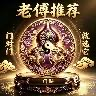
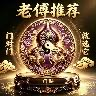
assets: 按模板表内嵌图同步所有榜单同名商品图（非闭环 49 款 + 节点榜 12 处），重复商品图与入榜行对齐

diff --git a/site/data/selection.js b/site/data/selection.js
@@ -1905,7 +1905,7 @@ window.SELECTION_DATA = {
         {
           "name": "足贴",
           "industry": "家居日用",
-          "image": "assets/products/1ace98ec61b7e6ce.webp",
+          "image": "assets/products/29f89b5fe1c62673.jpg",
           "leaf": "足贴",
           "price": 37.64,
           "roi": 3.62,
@@ -2007,7 +2007,7 @@ window.SELECTION_DATA = {
         {
           "name": "粘鼠板",
           "industry": "家居日用",
-          "image": "assets/products/32ee396da502b6fa.webp",
+          "image": "assets/products/32ee396da502b6fa.jpg",
           "leaf": "驱鼠/灭鼠用品",
           "price": 31.55,
           "roi": 2.1,
@@ -2654,7 +2654,7 @@ window.SELECTION_DATA = {
         {
           "name": "不锈钢保鲜盒",
           "industry": "家居日用",
-          "image": "assets/products/e4c5c14689ee1ecf.webp",
+          "image": "assets/products/e4c5c14689ee1ecf.jpg",
           "leaf": "保鲜盒",
           "price": 99.65,
           "spend": 70311.37,
@@ -2834,7 +2834,7 @@ window.SELECTION_DATA = {
         {
           "name": "足贴",
           "industry": "家居日用",
-          "image": "assets/products/1ace98ec61b7e6ce.webp",
+          "image": "assets/products/29f89b5fe1c62673.jpg",
           "leaf": "足贴",
           "price": 39.79,
           "spend": 47343.08,
@@ -2870,7 +2870,7 @@ window.SELECTION_DATA = {
         {
           "name": "粘鼠板",
           "industry": "家居日用",
-          "image": "assets/products/32ee396da502b6fa.webp",
+          "image": "assets/products/32ee396da502b6fa.jpg",
           "leaf": "驱鼠/灭鼠用品",
           "price": 32.36,
           "spend": 40367.78,
@@ -3440,7 +3440,7 @@ window.SELECTION_DATA = {
         {
           "name": "铝箔保鲜袋",
           "industry": "家居日用",
-          "image": "assets/products/874ae360b91c9f11.webp",
+          "image": "assets/products/874ae360b91c9f11.jpg",
           "leaf": "保鲜袋",
           "price": 13.55,
           "spend": 22300,
@@ -3512,7 +3512,7 @@ window.SELECTION_DATA = {
         {
           "name": "不锈钢保鲜盒",
           "industry": "家居日用",
-          "image": "assets/products/e4c5c14689ee1ecf.webp",
+          "image": "assets/products/e4c5c14689ee1ecf.jpg",
           "leaf": "保鲜盒",
           "price": 103.03,
           "spend": 16100,
@@ -3530,7 +3530,7 @@ window.SELECTION_DATA = {
         {
           "name": "菜刀",
           "industry": "家居日用",
-          "image": "assets/products/e372d8a8772e41e3.webp",
+          "image": "assets/products/e372d8a8772e41e3.jpg",
           "leaf": "菜刀",
           "price": 70.07,
           "spend": 16000,
@@ -3986,7 +3986,7 @@ window.SELECTION_DATA = {
         {
           "name": "压缩收纳袋",
           "industry": "家居日用",
-          "image": "assets/products/5e9fb18834b433ba.webp",
+          "image": "assets/products/5e9fb18834b433ba.jpg",
           "leaf": "压缩袋",
           "price": 74.1,
           "spend": 7994,
@@ -4772,7 +4772,7 @@ window.SELECTION_DATA = {
         {
           "name": "千鸟格收纳盒",
           "industry": "家居日用",
-          "image": "assets/products/aca00227d5f5742a.webp",
+          "image": "assets/products/aca00227d5f5742a.jpg",
           "leaf": "收纳箱/收纳盒",
           "price": 60.4,
           "spend": 14528,
@@ -4934,7 +4934,7 @@ window.SELECTION_DATA = {
         {
           "name": "压缩收纳袋",
           "industry": "家居日用",
-          "image": "assets/products/5e9fb18834b433ba.webp",
+          "image": "assets/products/5e9fb18834b433ba.jpg",
           "leaf": "收纳袋/收纳包",
           "price": 94.1,
           "spend": 4055,
@@ -5300,7 +5300,7 @@ window.SELECTION_DATA = {
         {
           "name": "家务手套",
           "industry": "家居日用",
-          "image": "assets/products/46039fae61c969d9.webp",
+          "image": "assets/products/c50e0814f91d45dc.jpg",
           "leaf": "",
           "price": 27.7,
           "spend": 15754,
